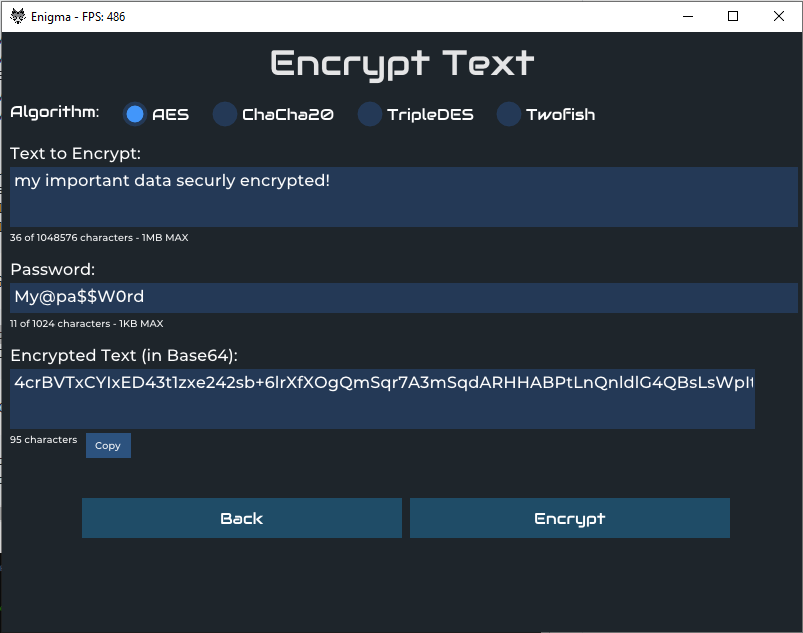
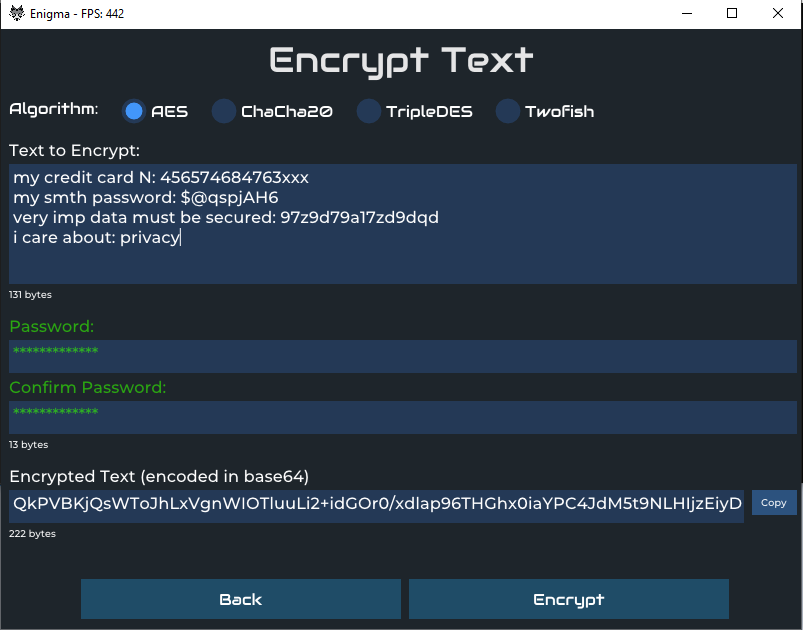
Added password confirmation

diff --git a/Source/Scenes/MainMenuScene.cpp b/Source/Scenes/MainMenuScene.cpp
@@ -51,6 +51,7 @@ void MainMenuScene::OnImGuiDraw()
 
 	static constexpr const auto spacing = [](const ui8& n) noexcept { for (ui8 i = 0; i < n; i++) ImGui::Spacing(); };
 
+	static ImFont* const& font_montserrat_medium_12 = m_fonts.at("Montserrat-Medium-12");
 	static ImFont* const& font_audiowide_regular_60 = m_fonts.at("Audiowide-Regular-60");
 	static ImFont* const& font_audiowide_regular_45 = m_fonts.at("Audiowide-Regular-45");
 	static ImFont* const& font_audiowide_regular_20 = m_fonts.at("Audiowide-Regular-20");
@@ -155,6 +156,16 @@ void MainMenuScene::OnImGuiDraw()
 			ImGui::PopFont();
 		}
 
+
+
+		// Daily Tips/Advices
+		{
+			ImGui::SetCursorPos(ImVec2(25.0f, io.DisplaySize.y - 25.0f));
+			static const auto& note = Constants::NOTES[Random::Int<size_t>(0, Constants::NOTES.size() - 1)];
+			ImGui::PushFont(font_montserrat_medium_12);
+			ImGui::Text("Tip: %s", note.data());
+			ImGui::PopFont();
+		}
 	}
 	ImGui::End();
 

diff --git a/Source/Core/Constants.hpp b/Source/Core/Constants.hpp
@@ -3,6 +3,7 @@
 #define ENIGMA_CONSTANTS_H
 
 #include "Types.hpp"
+#include <vector>
 
 namespace Enigma
 {
@@ -39,6 +40,7 @@ namespace Enigma
 		{
 			static constexpr const auto WEAK_PASSWORD_ERROR_MESSAGE = "Password is too weak! consider using 9 characters or more including special characters like :!@#$%^&*()_+-=[]{};'\",./?\\";
 		}
+
 
 		namespace Utility
 		{
@@ -79,6 +81,14 @@ namespace Enigma
 
 		}
 
+
+		// Advices
+		static const std::vector<std::string_view> NOTES
+		{
+			"Don't use the same password for all your encrypted data",
+			"Keep a written copy of your encryption password and the algorithm name you used in a safe place",
+			"For serious data, use strong algorithms like AES-GCM and TripleDES",
+		};
 	}
 }
 
